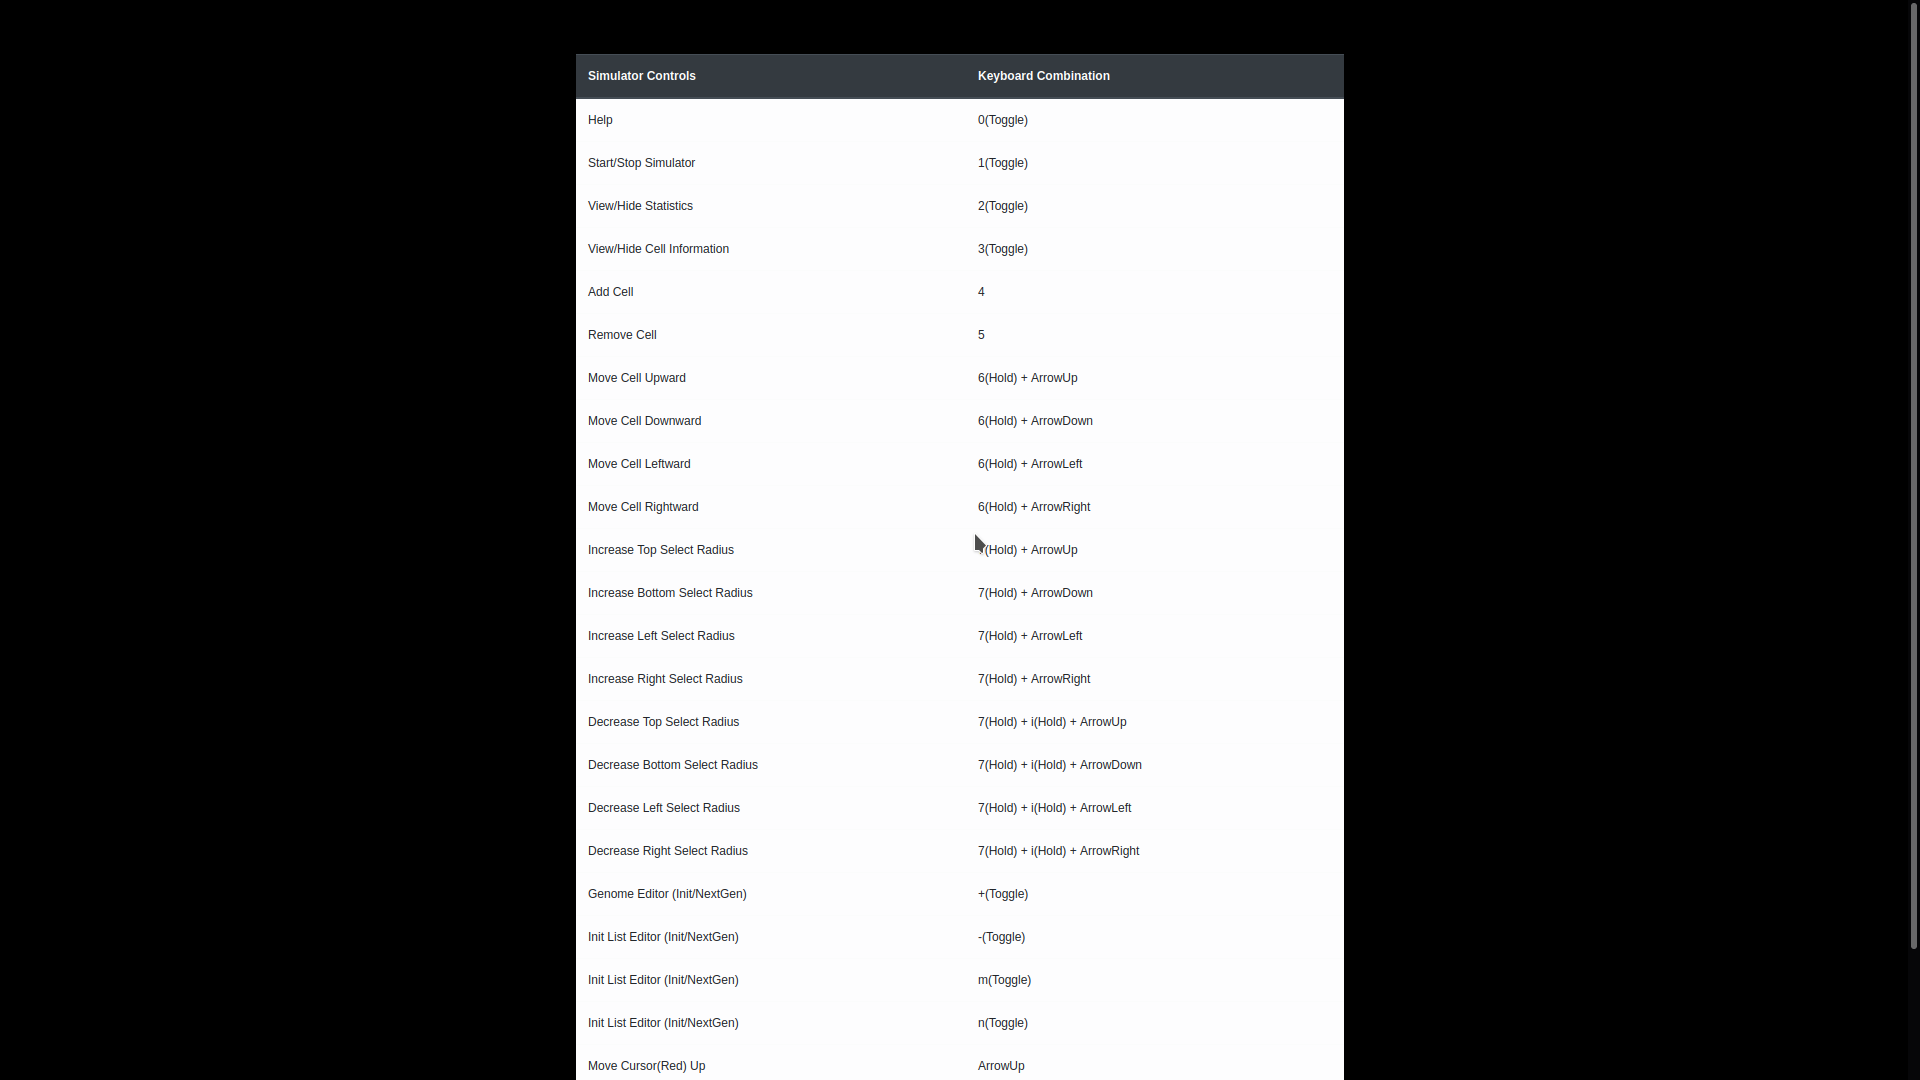
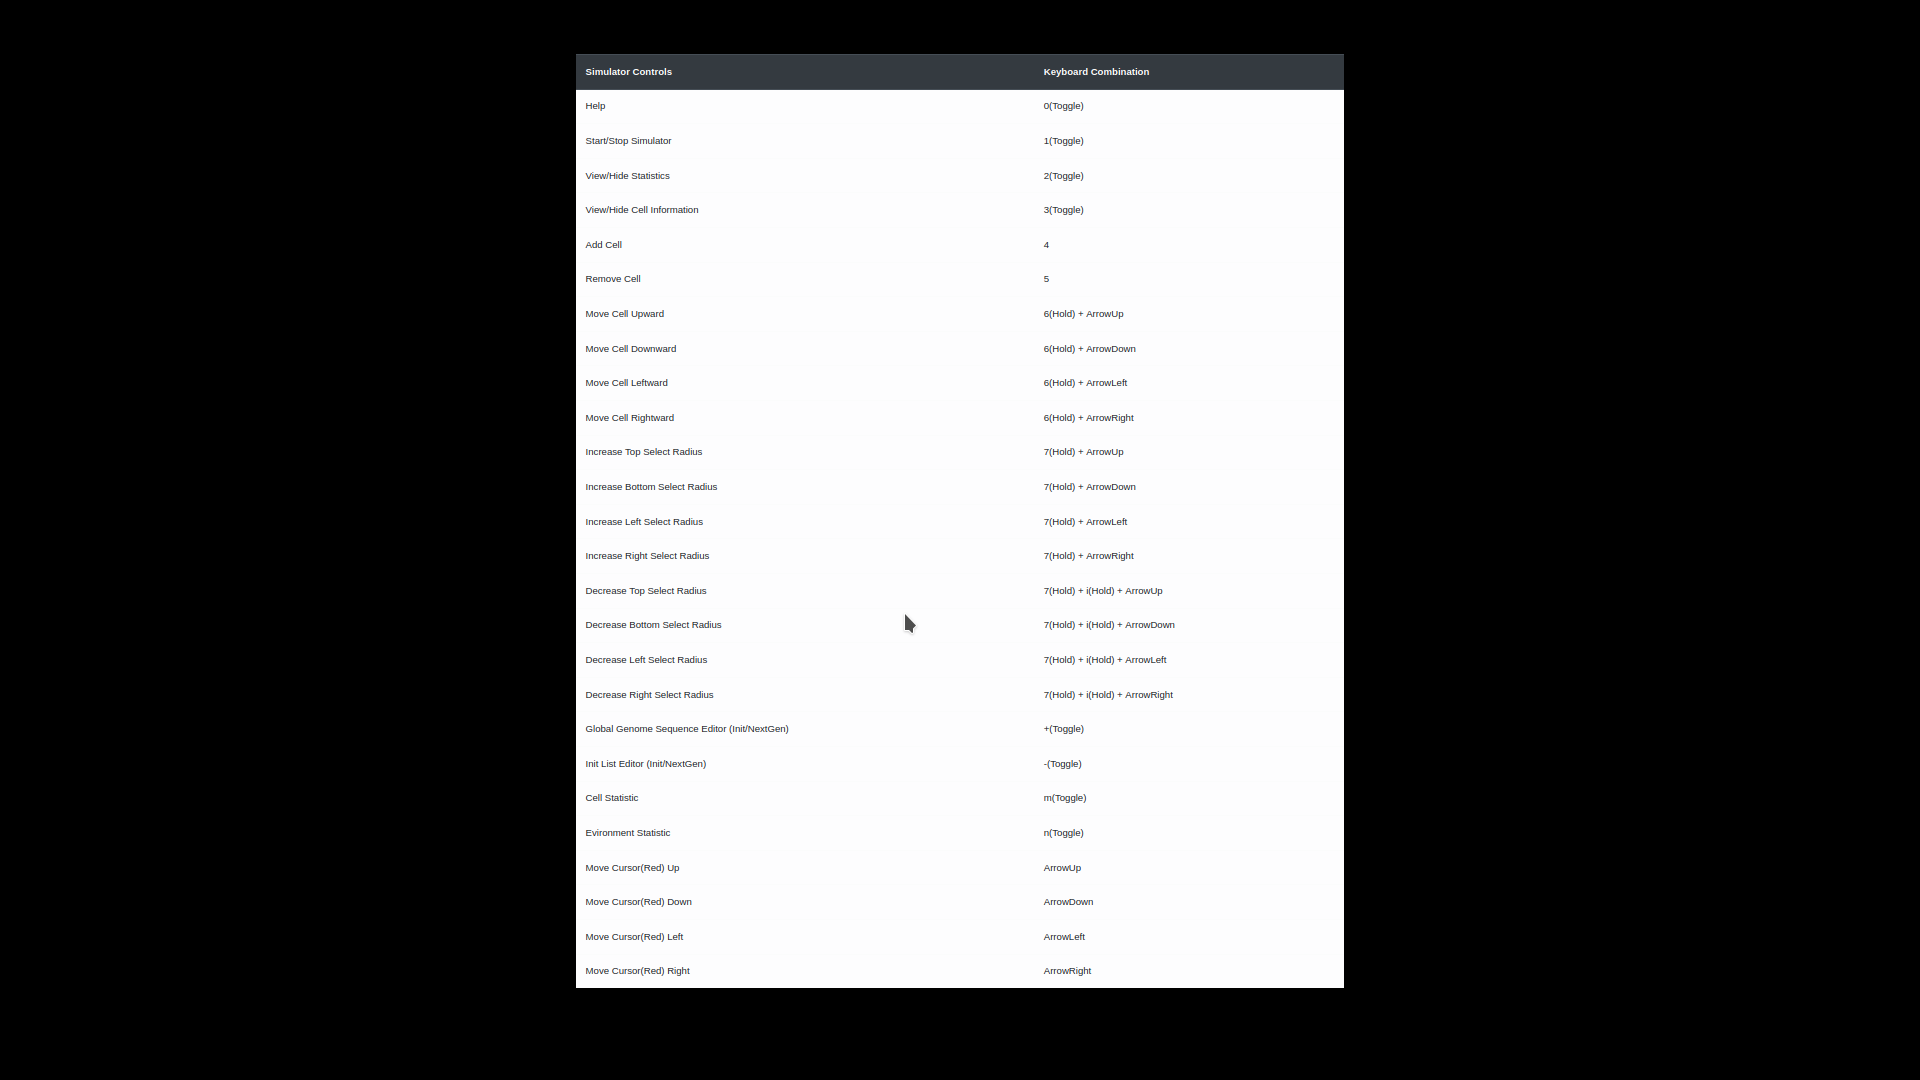
update

diff --git a/src/liveProcessor.js b/src/liveProcessor.js
@@ -152,16 +152,17 @@ var processMutation = (objectList, gene) => {
 }
 
 var processMetabolism = (statistic, grid, objectList, gene) => {
-    if (Math.tanh(currentLiveCell.actionPoints.metabolise) >= 1) {
+    if (Math.tanh(currentLiveCell.actionPoints.metabolise) > 0) {
         var consume = currentLiveCell.neighbours[gene.consume]
-        consume.map((key) => {
-            objectList[key.toString()] = getProperties(gene.produce)
-            grid[key.toString()].color = objectList[key.toString()].color
-            grid[key.toString()].type = gene.produce
+        if(consume != undefined) {
+            consume = consume[0]
+            objectList[consume.toString()] = getProperties(gene.produce)
+            grid[consume.toString()].color = objectList[consume.toString()].color
+            grid[consume.toString()].type = gene.produce
             statistic[gene.consume]--
             statistic[gene.produce]++
             objectList[currentLiveCell.key].metabolismCount++
-        })
+        }
     } 
 }
 
@@ -170,36 +171,35 @@ var processMovement = (grid, objectList) => {
     var moved = false
     var neighbour = getNeighbourArray(currentLiveCell.key)
 
-    if (Math.tanh(currentLiveCell.actionPoints.moveLeft) >= 1) {
+    if (Math.tanh(currentLiveCell.actionPoints.moveLeft) > 0) {
         moveCell(grid, objectList, currentLiveCell.key, neighbour[0])
         moved = true
         currentLiveCell.key = neighbour[0]
         objectList[currentLiveCell.key].distTravelLeft++
     }
 
-    if (Math.tanh(currentLiveCell.actionPoints.moveRight) >= 1) {
+    if (Math.tanh(currentLiveCell.actionPoints.moveRight) > 0) {
         moveCell(grid, objectList, currentLiveCell.key, neighbour[1])
         moved = true
         currentLiveCell.key = neighbour[1]
         objectList[currentLiveCell.key].distTravelRight++
     }
 
-    if (Math.tanh(currentLiveCell.actionPoints.moveUp) >= 1) {
+    if (Math.tanh(currentLiveCell.actionPoints.moveUp) > 0) {
         moveCell(grid, objectList, currentLiveCell.key, neighbour[2])
-        delete objectList[currentLiveCell.key]
         moved = true
         currentLiveCell.key = neighbour[2]
         objectList[currentLiveCell.key].distTravelUp++
     }
 
-    if (Math.tanh(currentLiveCell.actionPoints.moveDown) >= 1) {
+    if (Math.tanh(currentLiveCell.actionPoints.moveDown) > 0) {
         moveCell(grid, objectList, currentLiveCell.key, neighbour[3])
         moved = true
         currentLiveCell.key = neighbour[3]
         objectList[currentLiveCell.key].distTravelDown++
     }
 
-    if (moved == false && Math.tanh(currentLiveCell.actionPoints.moveRandom) >= 1) {
+    if (moved == false && Math.tanh(currentLiveCell.actionPoints.moveRandom) > 0) {
         var neighbourId = Math.floor(Math.random() * 7)
         var neighbour = getNeighbourArray(currentLiveCell.key)
         var target = neighbour[neighbourId]

diff --git a/src/app.js b/src/app.js
@@ -12,7 +12,6 @@ import CanvasJSReact from './canvasjs.react';
 var CanvasJSChart = CanvasJSReact.CanvasJSChart;
 var computeNumber = parseInt(process.env.REACT_APP_COMPUTE_NUMBER)
 var simulationSpeed = process.env.REACT_APP_SIMULATION_SPEED
-var geneSequence = process.env.REACT_APP_GENE_SEQUENCE
 var runState = false
 
 var num = []
@@ -35,8 +34,6 @@ var currentProperty = null
 var currentObjectId = undefined
 var negate = false
 var writeMode = false
-var borderTopLeft = 0
-var borderBottomLeft = computeNumber * computeNumber - computeNumber
 
 function App() {
   var { height, width } = useWindowDimensions();
@@ -56,6 +53,7 @@ function App() {
   var upload = useRef()
   var [initList, setInitList] = useState({})
   var [options, setOptions] = useState({})
+  var [geneSequence, setGeneSequence] = useState(process.env.REACT_APP_GENE_SEQUENCE)
 
   var appStyle = {
     height: Math.min(height * 0.99, width * 0.99),
@@ -1016,6 +1014,7 @@ function App() {
 
     switch(event.key) {
       case "+": {
+        console.log("hi")
         if (genomePanel.current.hidden == false) {
           genomePanel.current.hidden = true
           writeMode = false
@@ -1491,7 +1490,7 @@ function App() {
 
   var onSequenceChange = (event) => {
     geneSequence = event.target.value
-    console.log(geneSequence)
+    setGeneSequence(geneSequence)
   }
 
   var onDelete = (event) => {
@@ -1561,8 +1560,8 @@ function App() {
         <label className="custom-file-label" htmlFor="uploadScene">Upload Scene</label>
       </div>
       <div tabIndex={0} onKeyDown={onKeyDown} ref={genomePanel} class="form-group" style={uploadStyle}>
-        <label><b>GenomeSequence</b></label>
-        <input placeholder={geneSequence} type="text" class="form-control" onChange={onSequenceChange}></input>
+        <label><b>Global Init/NextGen Genome Sequence</b></label>
+        <input value={geneSequence} type="text" class="form-control" onChange={onSequenceChange}></input>
       </div>
       <table tabIndex={0} onKeyDown={onKeyDown} ref={infoPanel} style={infoPanelStyle} className="table">
         <thead className="thead-dark">
@@ -1727,7 +1726,7 @@ function App() {
             <td>7(Hold) + i(Hold) + ArrowRight</td>
           </tr>
           <tr>
-            <td>Genome Editor (Init/NextGen) </td>
+            <td>Global Genome Sequence Editor (Init/NextGen) </td>
             <td>+(Toggle)</td>
           </tr>
           <tr>
@@ -1735,11 +1734,11 @@ function App() {
             <td>-(Toggle)</td>
           </tr>
           <tr>
-            <td>Init List Editor (Init/NextGen) </td>
+            <td> Cell Statistic </td>
             <td>m(Toggle)</td>
           </tr>
           <tr>
-            <td>Init List Editor (Init/NextGen) </td>
+            <td>Evironment Statistic </td>
             <td>n(Toggle)</td>
           </tr>
           <tr>

diff --git a/README.md b/README.md
@@ -15,13 +15,7 @@
 
 ## Key Control
 
-- Num Key 1 -> Show Info Panel
-- Num Key 2 -> Hide Info Panel
-- Num Key 3 -> Show Cell Info Panel
-- Num Key 4 -> Hide Cell Info Panel
-- Num Key 5 -> Start Simulation
-- Num Key 6 -> Stop Simulation
-- Num Key 7 -> Create and Start new generation
+![1](https://github.com/prskid1000/EvoSim/blob/main/Preview/11.png?raw=true)
 
 ## Preview
 
